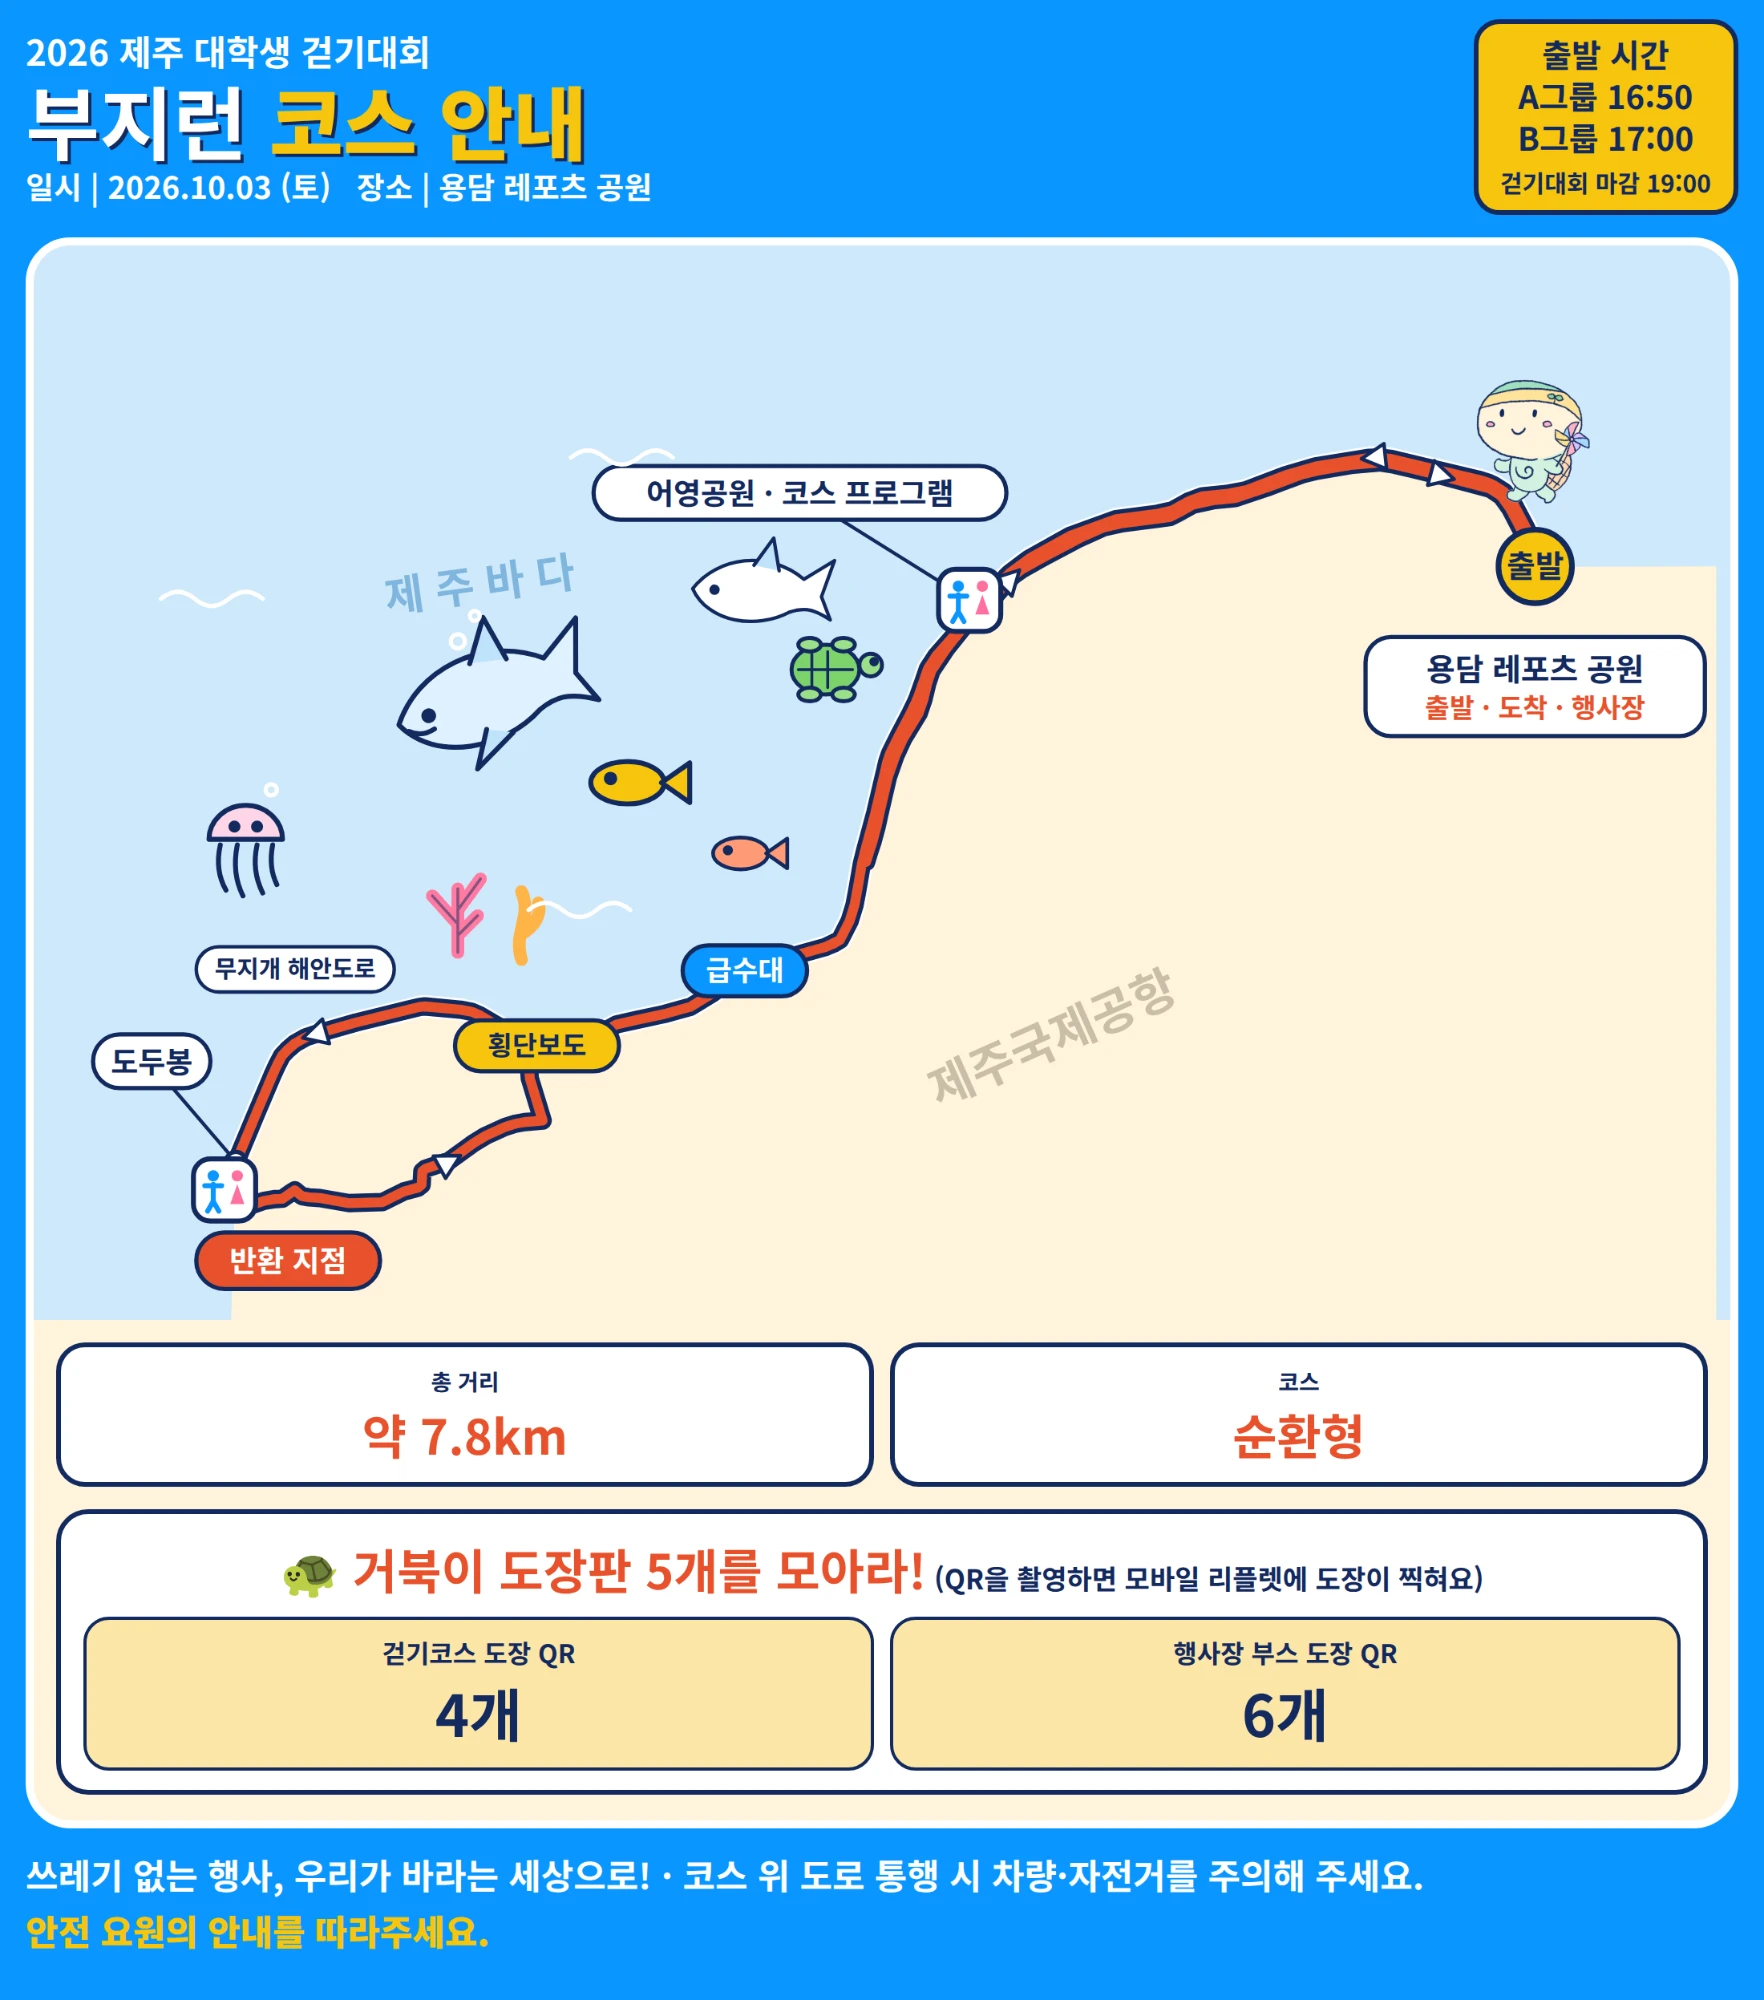
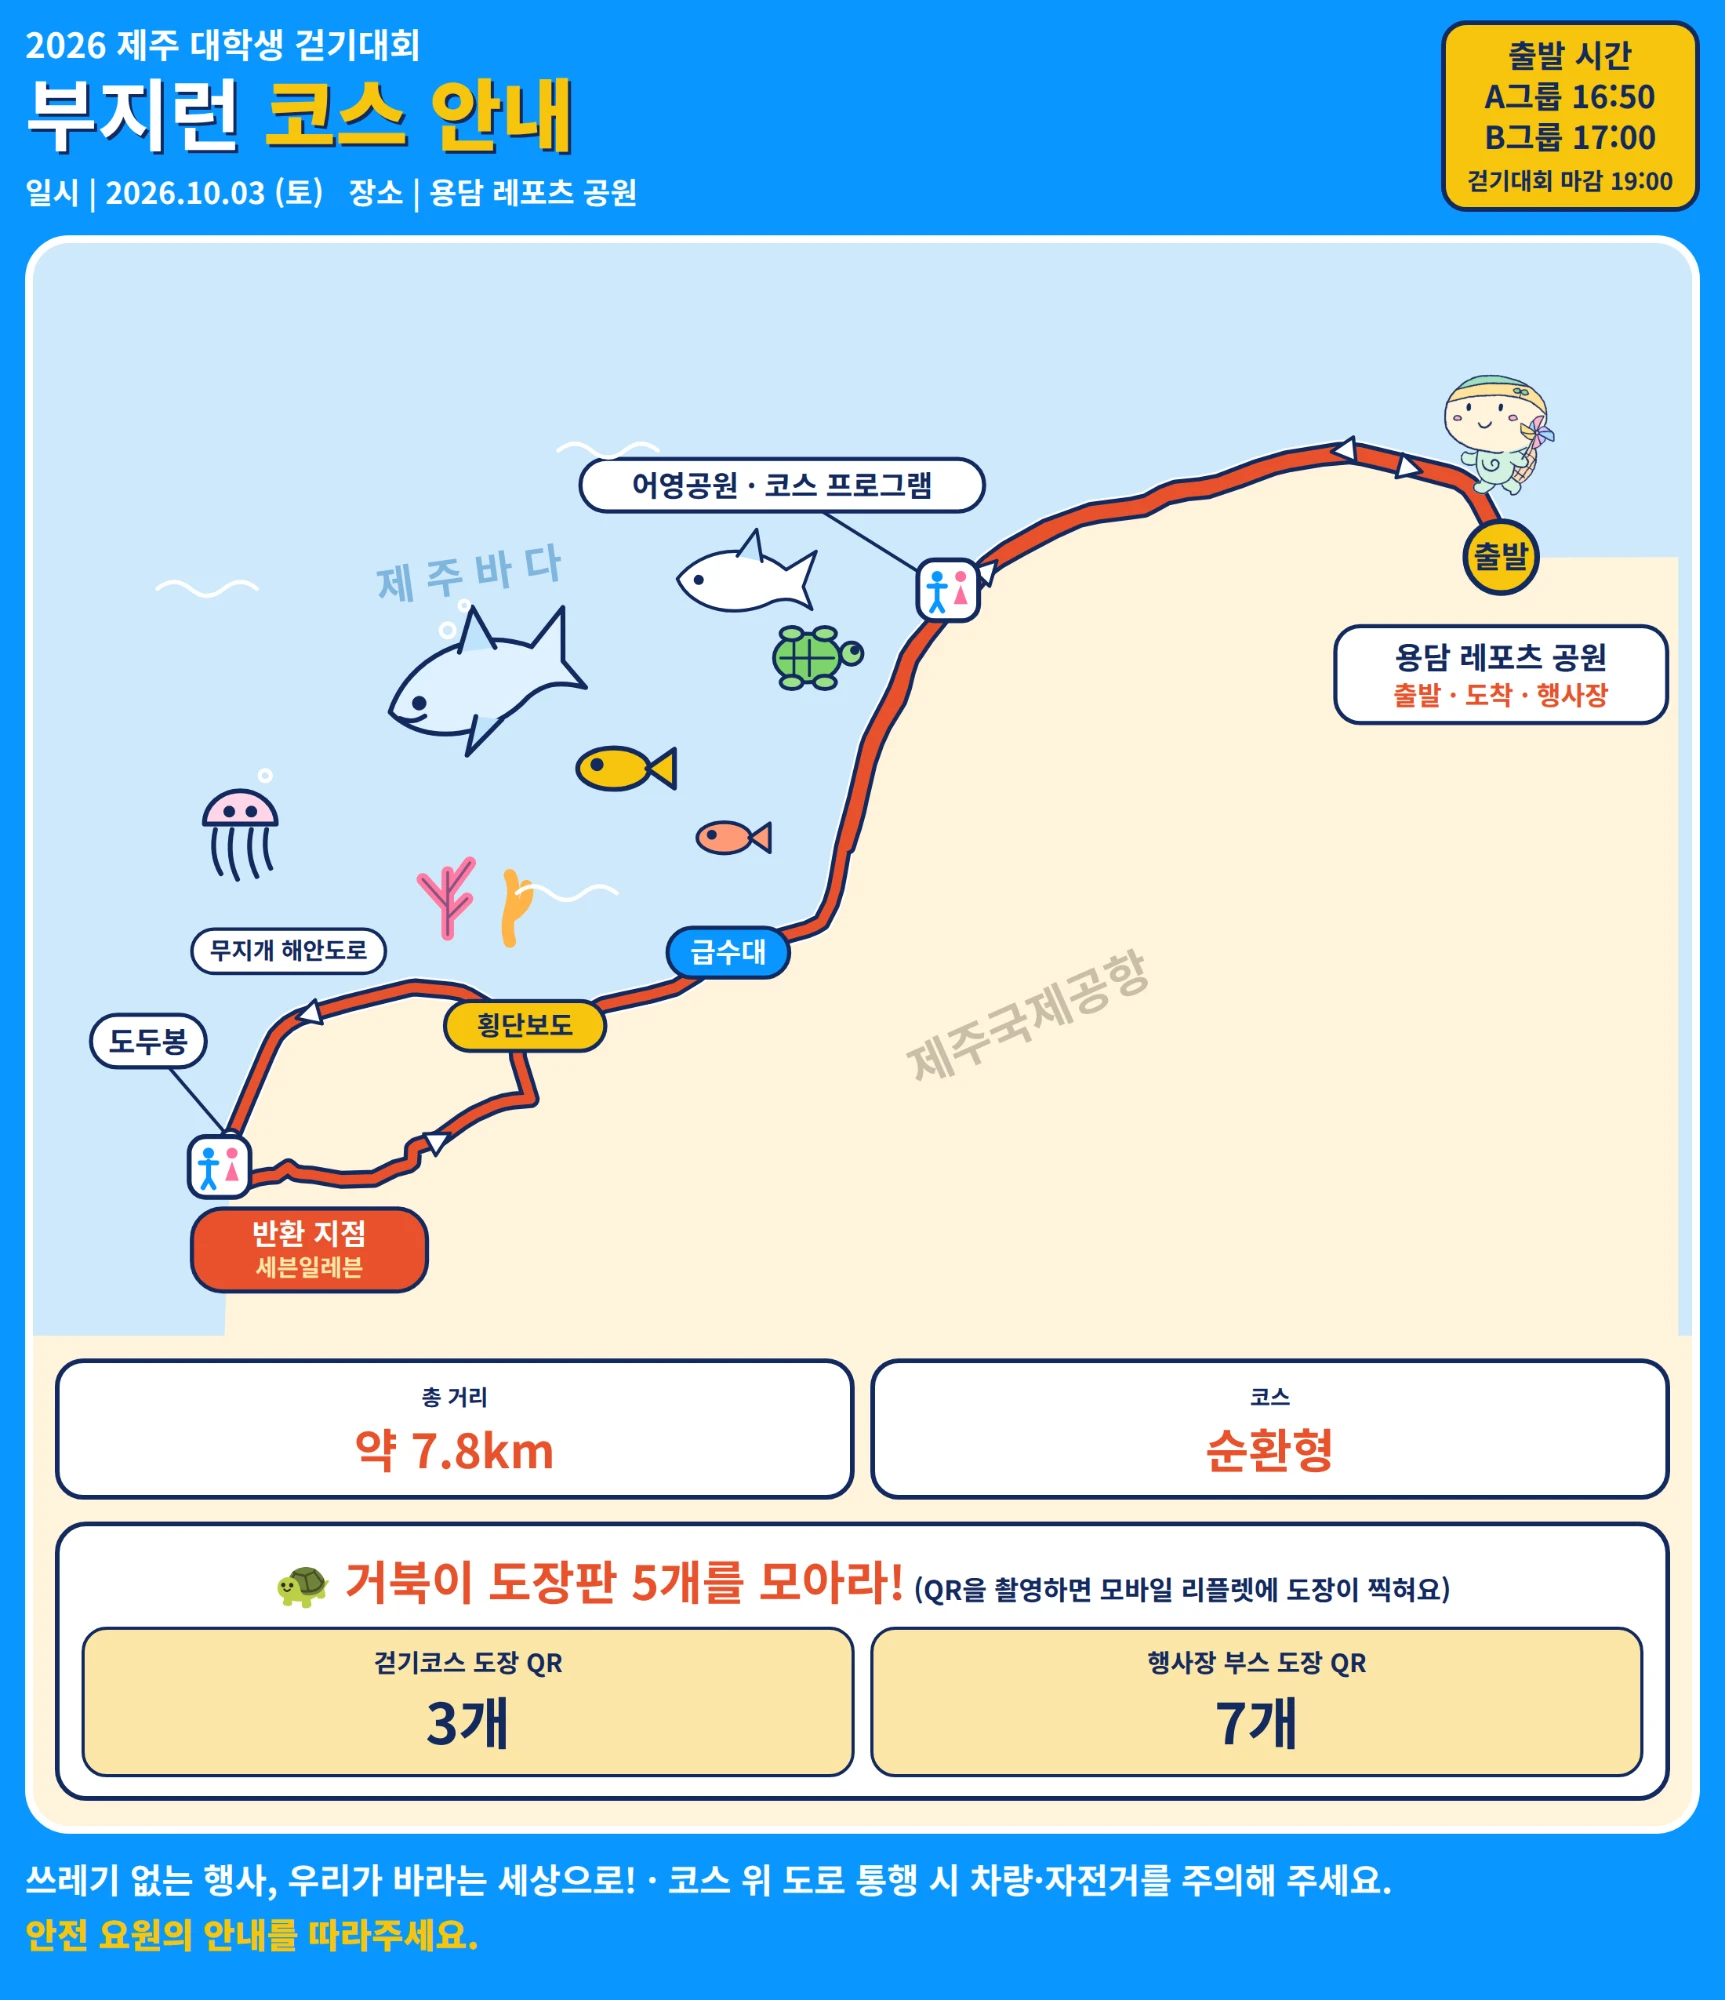
Update course map (3 course / 7 booth QR), fresh offline cache

diff --git a/index.html b/index.html
@@ -742,13 +742,13 @@
             <dl class="fact-list">
               <div class="fact"><dt>일시</dt><dd>2026년 10월 3일(토) 14:00 부스 시작 ~ 18:30 폐회식</dd></div>
               <div class="fact"><dt>장소</dt><dd>제주시 용담레포츠공원 (휴식공간 · 잔디운동장)</dd></div>
-              <div class="fact"><dt>코스</dt><dd>용담레포츠공원 출발 → 어영공원 → 도두봉 반환, 순환형 약 7.8km<br><span style="color:var(--muted);font-size:12.5px">A그룹 16:50 · B그룹 17:00 출발 · 19:00 마감</span></dd></div>
+              <div class="fact"><dt>코스</dt><dd>용담레포츠공원 출발 → 어영공원 → 도두봉 반환(세븐일레븐), 순환형 약 7.8km<br><span style="color:var(--muted);font-size:12.5px">A그룹 16:50 · B그룹 17:00 출발 · 19:00 마감</span></dd></div>
               <div class="fact"><dt>참가비</dt><dd>대학생 7,000원 / 일반 10,000원</dd></div>
             </dl>
           </div>
 
           <button class="map-img" id="courseOpen" aria-label="코스 안내도 크게 보기">
-            <img src="course-map.webp" width="1764" height="2000" alt="부지런 코스 안내도: 용담레포츠공원 출발, 어영공원 코스 프로그램과 화장실, 급수대, 횡단보도, 무지개 해안도로, 도두봉 반환 지점과 화장실, 총 약 7.8km 순환형" loading="lazy">
+            <img src="course-map.webp" width="1725" height="2000" alt="부지런 코스 안내도: 용담레포츠공원 출발, 어영공원 코스 프로그램과 화장실, 급수대, 횡단보도, 무지개 해안도로, 도두봉 반환 지점(세븐일레븐)과 화장실, 총 약 7.8km 순환형, 걷기코스 도장 QR 3개, 행사장 부스 도장 QR 7개" loading="lazy">
             <span>눌러서 크게 보기 🔍</span>
           </button>
 

diff --git a/sw.js b/sw.js
@@ -2,11 +2,12 @@
 // 한 번 앱을 열면 앱 화면·QR 인식 모듈·배치도 이미지를 휴대폰에 저장해 두고,
 // 인터넷이 끊기거나 느려도 저장본으로 앱을 연다.
 // 앱 파일을 고쳐 배포할 때는 VERSION 을 올리면 예전 저장본이 정리된다.
-const VERSION = 'bujiirun-v8';
+const VERSION = 'bujiirun-v9';
 const FILES = ['./', './index.html', './jsQR.min.js', './booth-map.webp', './course-map.webp'];
 
 self.addEventListener('install', event => {
-  event.waitUntil(caches.open(VERSION).then(cache => cache.addAll(FILES)).then(() => self.skipWaiting()));
+  // cache: 'reload' — 브라우저에 남은 예전 파일 말고 서버의 최신 파일을 받아 저장한다
+  event.waitUntil(caches.open(VERSION).then(cache => cache.addAll(FILES.map(f => new Request(f, { cache: 'reload' })))).then(() => self.skipWaiting()));
 });
 
 self.addEventListener('activate', event => {
